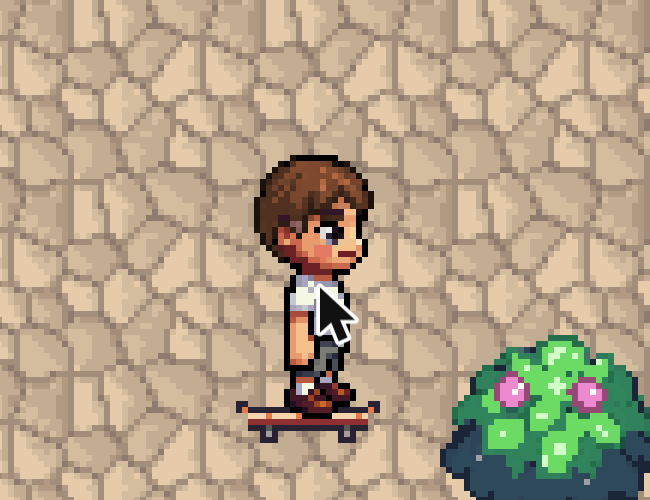
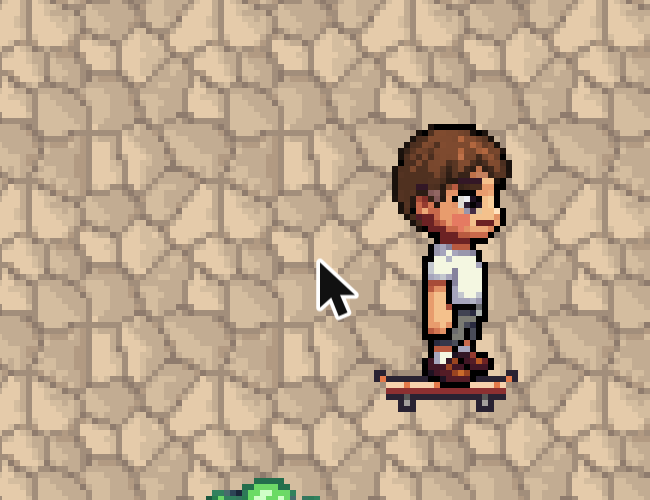
fix: rides glide instead of stepping, so board and skates stay under the feet
The skateboard kick replayed the walk cycle on the board and snapped to the
idle pose; roller skates stayed put while the walking feet moved. Now the
rider stands still on every ride and bobs gently with it (rides.json
look.bobPx/bobMs), lifting only the drawing, never the physics body.

Story: sports shop (design/game-brief.md)

diff --git a/src/scenes/TownScene.ts b/src/scenes/TownScene.ts
@@ -38,7 +38,7 @@ import { TownNpc } from './TownNpc';
 import { TownStrollers } from './TownStrollers';
 import { FerryClerk } from './FerryClerk';
 import ridesJson from '../data/rides.json';
-import { buyRide, currentRide, parseRides, pushPhase, speedFactor, toggleRide, type RideRules } from '../logic/rides';
+import { buyRide, currentRide, parseRides, rideLift, speedFactor, toggleRide, type RideRules } from '../logic/rides';
 import { RideSprite } from './rideArt';
 import { TownWild, type Critter } from './TownWild';
 import type { Bird } from './TownBirds';
@@ -64,6 +64,8 @@ const FLAT_DEPTH = -1700;
 const BOOTH_SPRITE = 'town_ticket_booth';
 /** The building whose door opens the sports shop (rides) instead of an interior. */
 const SPORTS_SHOP = 'sports';
+/** The player's feet body offset inside the 48px frame. */
+const PLAYER_BODY = { x: 16, y: 34 };
 /** Opacity of prop ground shadows (ink colour). */
 const SHADOW_ALPHA = 0.35;
 /** How often (ms) a chimney puffs. */
@@ -239,7 +241,7 @@ export class TownScene extends Phaser.Scene {
     createCharacterAnims(this, pArt, pDef.walkFps);
     const start = (this.data_.place && arrivalPoint(this.town, this.data_.place)) || arrivalPoint(this.town, 'home') || this.town.spawn;
     this.player = this.physics.add.sprite(start.x, start.y, `${pArt.name}_idle_down`);
-    this.player.body.setSize(16, 10).setOffset(16, 34);
+    this.player.body.setSize(16, 10).setOffset(PLAYER_BODY.x, PLAYER_BODY.y);
     this.player.setCollideWorldBounds(true);
     this.rideSprite = new RideSprite(this);
     this.physics.add.collider(this.player, solids);
@@ -355,13 +357,17 @@ export class TownScene extends Phaser.Scene {
     }
     this.player.setVelocity(vx * speed, vy * speed);
     this.facing = facingFor(vx, vy, this.facing);
-    // Legs: walking on foot; on roller skates, skating strides; on a skateboard, a kick then a glide standing still.
+    // On foot the legs walk; on a ride the player stands still and glides, bobbing gently with it
+    // (walking legs would step off the board or out of the skates).
     const moving = vx !== 0 || vy !== 0;
     this.rollingMs = moving ? this.rollingMs + this.game.loop.delta : 0;
-    const legs = moving && (!riding?.look || pushPhase(riding.look, this.rollingMs) === 'kick');
-    showMotion(this.player, art[character].name, this.facing, legs);
+    showMotion(this.player, art[character].name, this.facing, moving && !riding);
     this.player.setDepth(this.player.body.bottom);
-    this.rideSprite.update(riding, { x: this.player.x, y: this.player.body.bottom }, this.facing, this.player.depth);
+    const lift = riding?.look ? rideLift(riding.look, moving, this.rollingMs) : 0;
+    // Lift the drawing only: moving the display origin also moves the physics body, so the body offset compensates.
+    this.player.setDisplayOrigin(this.player.width / 2, this.player.height / 2 + lift);
+    this.player.body.setOffset(PLAYER_BODY.x, PLAYER_BODY.y + lift);
+    this.rideSprite.update(riding, { x: this.player.x, y: this.player.body.bottom - lift }, this.facing, this.player.depth);
   }
 
   // ---- rides & sports shop ----------------------------------------------------------

diff --git a/src/logic/rides.ts b/src/logic/rides.ts
@@ -23,19 +23,18 @@ export interface Ride {
 }
 
 /**
- * How a ride is drawn and how the player moves on it.
- * - "push": a skateboard — a kick with one foot (the walk cycle), then a glide standing still.
- * - "stride": roller skates — the walk cycle the whole time (skating strides).
+ * How a ride is drawn under the player. On every ride the player stands
+ * still (no steps: walking legs would leave the board or skates behind) and
+ * bobs gently with it while moving.
  */
 export interface RideLook {
   /** Drawn over the shoes (roller skates) instead of under the feet (a board). */
   over: boolean;
   /** Px below the player's feet line where the ride's bottom sits. */
   dy: number;
-  style: 'push' | 'stride';
-  /** "push" only: how long each kick and each glide lasts (ms). */
-  pushMs?: number;
-  glideMs?: number;
+  /** The gentle up-down bob while moving: how high (px) and one full cycle (ms). */
+  bobPx: number;
+  bobMs: number;
 }
 
 /** The sports shop. */
@@ -85,23 +84,18 @@ function parseLook(v: unknown, p: string): RideLook {
   const o = v && typeof v === 'object' ? (v as Record<string, unknown>) : fail(p, 'expected an object');
   if (typeof o.over !== 'boolean') fail(`${p}.over`, 'expected true or false');
   if (typeof o.dy !== 'number') fail(`${p}.dy`, 'expected a number');
-  const style = o.style === 'push' || o.style === 'stride' ? o.style : fail(`${p}.style`, 'expected "push" or "stride"');
-  const look: RideLook = { over: o.over as boolean, dy: o.dy as number, style };
-  if (style === 'push') {
-    const ms = (k: 'pushMs' | 'glideMs') => (typeof o[k] === 'number' && (o[k] as number) > 0 ? (o[k] as number) : fail(`${p}.${k}`, 'expected a number > 0 for a "push" ride'));
-    look.pushMs = ms('pushMs');
-    look.glideMs = ms('glideMs');
-  }
-  return look;
+  const n = (k: 'bobPx' | 'bobMs', min: number) => (typeof o[k] === 'number' && (o[k] as number) >= min ? (o[k] as number) : fail(`${p}.${k}`, `expected a number >= ${min}`));
+  return { over: o.over as boolean, dy: o.dy as number, bobPx: n('bobPx', 0), bobMs: n('bobMs', 1) };
 }
 
 /**
- * Whether a "push" ride is in the kick (legs moving) or the glide at `elapsedMs`
- * since the player started rolling: kick first, then glide, repeating.
+ * How far up the bob lifts rider and ride `elapsedMs` after starting to roll:
+ * whole px, 0 at the start, smoothly up to bobPx and back. 0 when stopped.
  */
-export function pushPhase(look: RideLook, elapsedMs: number): 'kick' | 'glide' {
-  if (look.style !== 'push' || !look.pushMs || !look.glideMs) return 'kick';
-  return elapsedMs % (look.pushMs + look.glideMs) < look.pushMs ? 'kick' : 'glide';
+export function rideLift(look: RideLook, moving: boolean, elapsedMs: number): number {
+  if (!moving) return 0;
+  const phase = (elapsedMs % look.bobMs) / look.bobMs;
+  return Math.round(look.bobPx * (0.5 - 0.5 * Math.cos(phase * 2 * Math.PI)));
 }
 
 /** Buys `id`: takes its price and adds it to the rides owned. Nothing changes when it can't be bought. */

diff --git a/tests/unit/rides/rides.test.ts b/tests/unit/rides/rides.test.ts
@@ -1,13 +1,13 @@
 import { describe, expect, it } from 'vitest';
 import ridesJson from '../../../src/data/rides.json';
 import { deserialize, SAVE_VERSION } from '../../../src/logic/state';
-import { buyRide, currentRide, parseRides, pushPhase, speedFactor, toggleRide, type RideWallet } from '../../../src/logic/rides';
+import { buyRide, currentRide, parseRides, rideLift, speedFactor, toggleRide, type RideWallet } from '../../../src/logic/rides';
 
 /** A shop with one ride for sale and one coming soon. */
 function rules() {
   return parseRides({
     rides: [
-      { id: 'skate', price: 120, speedBonus: 0.3, status: 'open', roughFactor: 0.8, look: { over: false, dy: 6, style: 'push', pushMs: 400, glideMs: 800 } },
+      { id: 'skate', price: 120, speedBonus: 0.3, status: 'open', roughFactor: 0.8, look: { over: false, dy: 6, bobPx: 1, bobMs: 800 } },
       { id: 'bike', price: 450, speedBonus: 0.8, status: 'soon', roughFactor: 0.9 },
     ],
   });
@@ -25,9 +25,9 @@ describe('rides config', () => {
     expect(() => parseRides({ rides: [{ id: 'x', price: 1, speedBonus: 0.2, status: 'soon', roughFactor: 1.5 }] })).toThrow(/roughFactor/);
   });
 
-  it('needs a look for a ride on sale, and kick/glide times for a "push" ride', () => {
+  it('needs a look with a bob for a ride on sale', () => {
     expect(() => parseRides({ rides: [{ id: 'x', price: 1, speedBonus: 0.2, status: 'open', roughFactor: 0.8 }] })).toThrow(/look/);
-    expect(() => parseRides({ rides: [{ id: 'x', price: 1, speedBonus: 0.2, status: 'open', roughFactor: 0.8, look: { over: false, dy: 0, style: 'push' } }] })).toThrow(/pushMs/);
+    expect(() => parseRides({ rides: [{ id: 'x', price: 1, speedBonus: 0.2, status: 'open', roughFactor: 0.8, look: { over: false, dy: 0 } }] })).toThrow(/bobPx/);
   });
 });
 
@@ -101,18 +101,16 @@ describe('rides in the save', () => {
   });
 });
 
-describe('skateboard kick and glide', () => {
-  const look = { over: false, dy: 6, style: 'push' as const, pushMs: 400, glideMs: 800 };
+describe('gliding on a ride', () => {
+  const look = { over: false, dy: 6, bobPx: 1, bobMs: 800 };
 
-  it('kicks first, then glides, then kicks again', () => {
-    expect(pushPhase(look, 0)).toBe('kick');
-    expect(pushPhase(look, 399)).toBe('kick');
-    expect(pushPhase(look, 400)).toBe('glide');
-    expect(pushPhase(look, 1199)).toBe('glide');
-    expect(pushPhase(look, 1200)).toBe('kick');
+  it('bobs smoothly up and back down while moving', () => {
+    expect(rideLift(look, true, 0)).toBe(0);
+    expect(rideLift(look, true, 400)).toBe(1);
+    expect(rideLift(look, true, 800)).toBe(0);
   });
 
-  it('a "stride" ride always moves its legs', () => {
-    expect(pushPhase({ over: true, dy: 1, style: 'stride' }, 900)).toBe('kick');
+  it('stays level when stopped', () => {
+    expect(rideLift(look, false, 400)).toBe(0);
   });
 });
